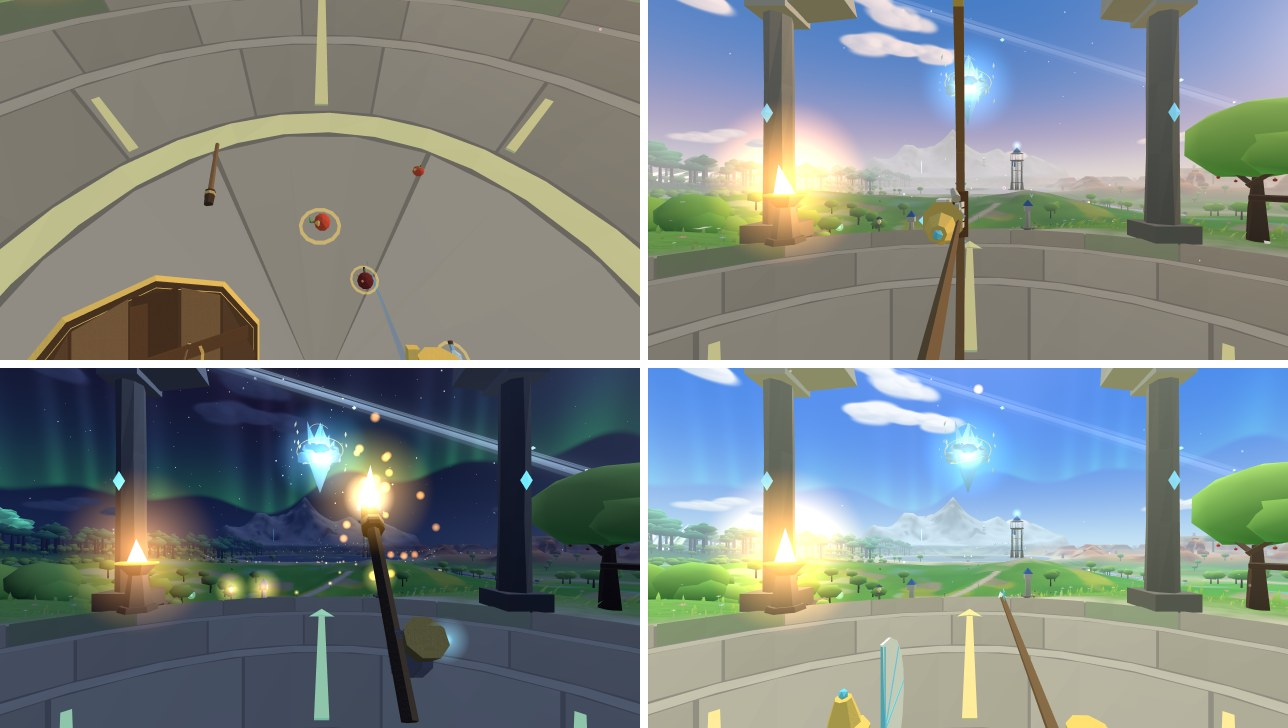
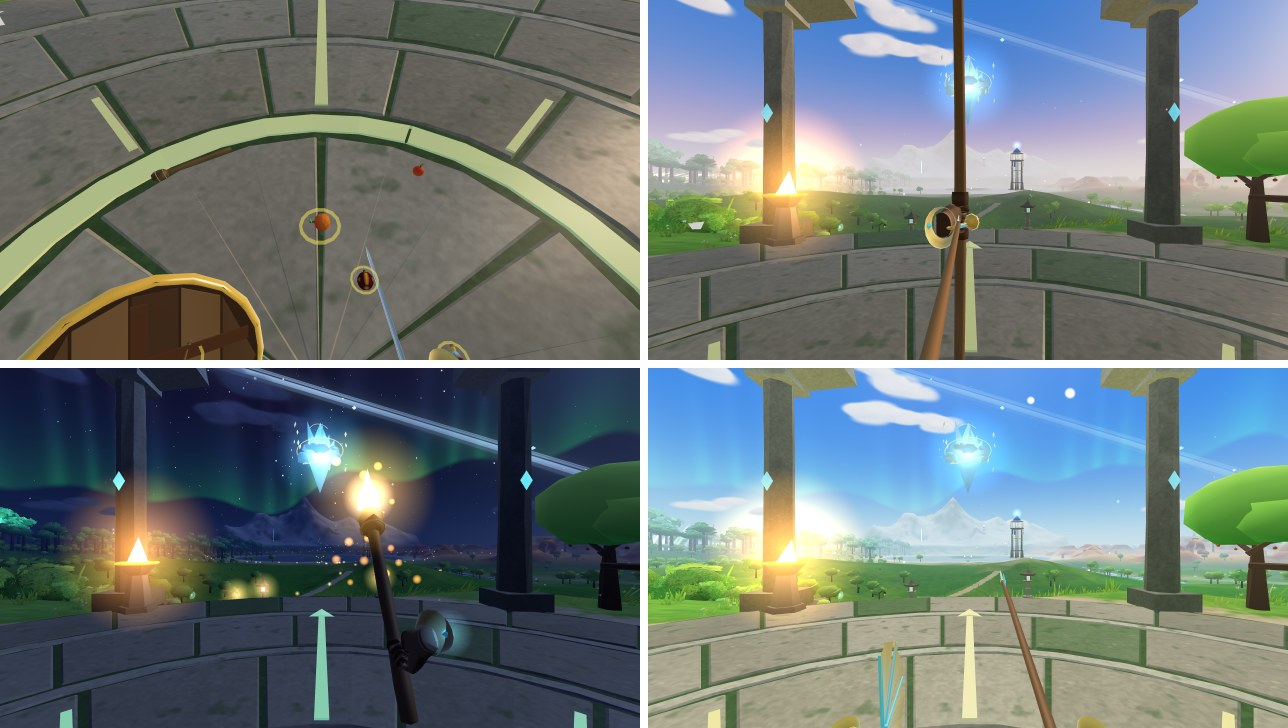
aetherwalk: realistic gloved hands and rebuilt held items
- Hands use the WebXR Input Profiles generic-hand mesh (MIT), skinned
  on the CPU with a baked leather glove texture; controllers pose the
  fingers from grip, trigger and thumb touch and wrap each item's
  handle; hand tracking drives the 25 joints; the faceted glove
  remains as an offline fallback. The build precaches the glbs.
- Held items rebuilt with smooth normals and matte/metal parts:
  bevelled sword with fuller, curved bow, planked shield, spear,
  torch, flask, bomb and fan.
- debug.coverage converts colours before measuring.
- New hands_closeup.jpg; retaken review_body.jpg.

Claude-Session: https://claude.ai/code/session_01H98kDx4BzyB7H16AujXYj1

diff --git a/aetherwalk/js/items/models.js b/aetherwalk/js/items/models.js
@@ -135,13 +135,13 @@ const BUILD = {
     b.gem(0, 0.022, -1.39, 0.008);
   },
   torch(b) {
-    // a knotted branch, a pitch-soaked cloth head bound with cord
-    b.lathe([[0.016, -0.3], [0.019, -0.22], [0.017, -0.12], [0.02, -0.02], [0.018, 0.08], [0.02, 0.13], [0.0, 0.14]], 7, C.wood, [0, 0, 0.0], [-R90, 0, 0], 1, { shade: grain('z', 3) });
-    b.lathe([[0.019, -0.03], [0.036, -0.02], [0.043, 0.02], [0.044, 0.06], [0.038, 0.1], [0.022, 0.12], [0.0, 0.125]], 8, C.pitch, [0, 0, -0.42], [R90, 0, 0], 1, {
-      shade: (x, y, z, c) => { const k = 0.5 + 0.5 * Math.sin(Math.atan2(y, x) * 5 + z * 140); c.lerp(MIXC.setHex(C.cloth), 0.15 + 0.25 * k); },
+    // a knotted branch (handle end z +0.13 → head z −0.41), a pitch-soaked cloth head bound with cord
+    b.lathe([[0.0, -0.135], [0.018, -0.13], [0.02, -0.06], [0.017, 0.06], [0.02, 0.17], [0.018, 0.3], [0.021, 0.41], [0.0, 0.415]], 7, C.wood, [0, 0, 0], [-R90, 0, 0], 1, { shade: grain('z', 3) });
+    b.lathe([[0.0, 0.0], [0.024, 0.002], [0.04, 0.02], [0.045, 0.055], [0.04, 0.095], [0.026, 0.118], [0.0, 0.124]], 8, C.pitch, [0, 0, -0.395], [-R90, 0, 0], 1, {
+      shade: (x, y, z, c) => { const k = 0.5 + 0.5 * Math.sin(Math.atan2(y, x) * 5 + z * 140); c.lerp(MIXC.setHex(C.cloth), 0.12 + 0.25 * k); if (z < -0.5) c.multiplyScalar(0.6); },
     });
-    b.torus(0.04, 0.0035, 4, 10, Math.PI * 2, C.cloth, [0, 0, -0.43], [0, 0, 0], 1, { smooth: true });
-    b.torus(0.043, 0.0035, 4, 10, Math.PI * 2, C.cloth, [0, 0, -0.49], [0, 0, 0], 1, { smooth: true });
+    b.torus(0.042, 0.0035, 4, 10, Math.PI * 2, C.cloth, [0, 0, -0.42], [0, 0, 0], 1, { smooth: true });
+    b.torus(0.044, 0.0035, 4, 10, Math.PI * 2, C.cloth, [0, 0, -0.475], [0, 0, 0], 1, { smooth: true });
   },
   shield(b) {
     // Ø0.48 decagon board, 0.03 thick; face +X = five bevelled planks with grain + gold boss + gem; smooth gold rim;
@@ -196,13 +196,19 @@ const BUILD = {
     b.cyl(0.0065, 0.0058, 0.014, 5, C.gold, [0, 0, -0.004], [R90, 0, 0], 1, { metal: true, smooth: true });
   },
   bomb(b) {
-    b.ico(0.062, 2, C.bomb, [0, 0, 0], [0, 0, 0], 1, {
+    // a burstfruit: a dark husk split by six glowing ochre seams, a woody stem and a frayed fuse
+    b.ico(0.062, 2, 0x3e1518, [0, 0, 0], [0, 0, 0], [1, 1, 1.08], {
       smooth: true,
-      shade: (x, y, z, c) => { const s = Math.sin(x * 160) * Math.sin(y * 150) * Math.sin(z * 170); if (s > 0.55) c.lerp(MIXC.setHex(C.bombDot), 0.75); c.ao = 0.85 + 0.15 * Math.max(0, -z / 0.062); },
+      shade: (x, y, z, c) => {
+        const a = Math.atan2(y, x), seam = Math.abs(Math.sin(a * 3));
+        if (seam < 0.2) c.lerp(MIXC.setHex(C.bombDot), 0.85 * (1 - seam / 0.2));
+        else c.lerp(MIXC.setHex(0x6e2024), 0.4 * seam);
+        c.ao = 0.75 + 0.25 * Math.min(1, Math.max(0, (-z + 0.02) / 0.08));
+      },
     });
-    b.lathe([[0.0, 0], [0.012, 0.002], [0.009, 0.012], [0.006, 0.016]], 6, C.dark, [0, 0, -0.058], [R90, 0, 0], 1, {});
-    b.tube([[0, 0, -0.072], [0.004, 0.003, -0.082], [0.0, 0.006, -0.092], [-0.004, 0.003, -0.1]], 0.0025, 6, 4, C.cloth, {});
-    b.box(0.032, 0.003, 0.016, C.green, [0.014, 0.0, -0.068], [0, 0.4, 0.2]);
+    b.lathe([[0.0, 0], [0.013, 0.002], [0.009, 0.012], [0.006, 0.017]], 6, C.dark, [0, 0, -0.064], [-R90, 0, 0], 1, {});
+    b.tube([[0, 0, -0.078], [0.004, 0.003, -0.088], [0.0, 0.006, -0.098], [-0.004, 0.003, -0.106]], 0.0025, 6, 4, C.cloth, {});
+    b.box(0.032, 0.003, 0.016, C.green, [0.014, 0.0, -0.072], [0, 0.4, 0.2]);
   },
   rock(b) {
     b.dodeca(0.05, C.rock, [0, 0, 0], [0.3, 0.5, 0], [1, 0.8, 0.9], { shade: (x, y, z, c) => c.multiplyScalar(0.9 + 0.2 * hash(Math.round(x * 400) + Math.round(y * 300) * 7)) });

diff --git a/aetherwalk/js/core/debug.js b/aetherwalk/js/core/debug.js
@@ -3,6 +3,7 @@
 import * as THREE from 'three';
 import { wrapDeg360, DEG } from './util.js';
 import { createDummy } from './stubs.js';
+const SRGB = Uint8Array.from({ length: 256 }, (_, v) => { const l = v / 255; return Math.round(255 * (l <= 0.0031308 ? 12.92 * l : 1.055 * l ** (1 / 2.4) - 0.055)); });
 
 // names of everything OPUS-A draws (hands, items, their effects, comfort aids)
 const MINE = /^(glove-|item-|items-|glow-sprites|item-shadows|item-streaks|gems$|swing-trail|vignette|center-ring|holster-|grab-aim-|bowstring|flame-cone|torch-glow|torch-core|bomb-spark|gale$|gem$)/;
@@ -201,6 +202,8 @@ export function installDebug(ctx, loop) {
       r.render(scene, cam);
       const px = new Uint8Array(w * h * 4);
       r.readRenderTargetPixels(rt, 0, 0, w, h, px);
+      // the target holds linear colour; encode to sRGB so colours (and dark faces) are judged as they appear on screen
+      for (let i = 0; i < px.length; i += 4) { px[i] = SRGB[px[i]]; px[i + 1] = SRGB[px[i + 1]]; px[i + 2] = SRGB[px[i + 2]]; }
       r.setRenderTarget(null);
       r.setClearColor(cc, ca);
       scene.background = bg; scene.fog = fog;
@@ -225,7 +228,7 @@ export function installDebug(ctx, loop) {
       // largest connected patch of one colour (a "single-colour face")
       const lab = new Int32Array(w * h).fill(-1);
       const keyAt = (i) => (px[i * 4 + 3] === 0 && px[i * 4] + px[i * 4 + 1] + px[i * 4 + 2] === 0) ? -1 : ((px[i * 4] >> 4) << 8 | (px[i * 4 + 1] >> 4) << 4 | (px[i * 4 + 2] >> 4));
-      let face = 0;
+      let face = 0, faceKey = -1, faceAt = -1;
       const stack = [];
       for (let i0 = 0; i0 < w * h; i0++) {
         if (lab[i0] !== -1) continue;
@@ -239,12 +242,14 @@ export function installDebug(ctx, loop) {
           const nb = [x > 0 ? i - 1 : -1, x < w - 1 ? i + 1 : -1, y > 0 ? i - w : -1, y < h - 1 ? i + w : -1];
           for (const j of nb) if (j >= 0 && lab[j] === -1 && keyAt(j) === k) { lab[j] = i0; stack.push(j); }
         }
-        if (size > face) face = size;
+        if (size > face) { face = size; faceKey = k; faceAt = i0; }
       }
       const T = w * h;
       return { frac: +(n / T).toFixed(4), bottom10: +(bottom / T).toFixed(4), topRow: n ? +(top / h).toFixed(3) : null,
         bbox: n ? [+(minX / w).toFixed(3), +(minY / h).toFixed(3), +(maxX / w).toFixed(3), +(maxY / h).toFixed(3)] : null,
-        biggestColor: +(big / T).toFixed(4), biggestFace: +(face / T).toFixed(4) };
+        biggestColor: +(big / T).toFixed(4), biggestFace: +(face / T).toFixed(4),
+        faceColor: faceKey < 0 ? null : '#' + faceKey.toString(16).padStart(3, '0'),
+        faceAt: faceAt < 0 ? null : [+((faceAt % w) / w).toFixed(3), +(1 - ((faceAt / w) | 0) / h).toFixed(3)] };
     },
   });
   function safe(fn, dflt) { try { return fn(); } catch { return dflt; } }

diff --git a/aetherwalk/js/player/hands.js b/aetherwalk/js/player/hands.js
@@ -109,8 +109,9 @@ export function createHands(ctx, P) {
   const handMat = ctx.art.material({ color: 0xffffff, vertexColors: true, flat: false, rim: 0.35, spec: 0.12, gloss: 10 });
   const cuffs = createAttached(ctx, 'glove-cuffs', cuffGeometry(),
     ctx.art.material({ color: 0xffffff, vertexColors: true, flat: false, rim: 0.3, spec: 0.6, gloss: 40 }), 2, 1e6);
-  loadHandData().then((data) => {
+  loadHandData().then(async (data) => {
     for (const side of HANDS) {
+      await new Promise((r) => setTimeout(r, 0));          // one hand's texture bake per task (no long stall)
       const h = H[side];
       const rig = createHandRig(data[side], side, handMat, new THREE.Vector3(h.s * GRIP_C[0], GRIP_C[1], GRIP_C[2]), ctx.art);
       h.rig = rig;
@@ -194,7 +195,7 @@ export function createHands(ctx, P) {
     for (const side of HANDS) {
       const h = H[side];
       const hd = input.hands[side];
-      if (rigReady && h.rig) {
+      if (h.rig) {                                      // per hand: no frame with both gloves while the other bakes
         h.rig.mesh.visible = hd.tracked;
         h.anchor.visible = hd.tracked;
         if (hd.tracked) poseRig(h, side, hd, dt);
@@ -208,7 +209,7 @@ export function createHands(ctx, P) {
         h.mesh.visible = hd.tracked;
       }
       if (hd.tracked && (ctx.world?.nightFactor ?? 0) > 0.5) {
-        if (h.anchor && rigReady) _gp.set(0, 0.032, 0.03).applyQuaternion(h.anchor.getWorldQuaternion(_jq)).add(h.anchor.getWorldPosition(_jp));
+        if (h.anchor) _gp.set(0, 0.032, 0.03).applyQuaternion(h.anchor.getWorldQuaternion(_jq)).add(h.anchor.getWorldPosition(_jp));
         else _gp.set(h.s * 0.082, 0.088, 0).applyQuaternion(hd.quat).add(hd.pos);
         sprites.push(_gp, 0.1, GEM_GLOW);                // art.glow size 0.05 = radius → 0.1 across
       }

diff --git a/aetherwalk/js/core/input.js b/aetherwalk/js/core/input.js
@@ -50,8 +50,9 @@ const GUARD = { p: [0.12, -0.2, -0.44], d: [0.0, 1, 0.05], e: [1, -0.25, 0.2] };
 //   empty hand 45.6° below the view → out of frame; holding something 34.7° below → only the item's
 //   far end shows in the lower quarter; a shield turned 35° outward at the lower left.
 const EMPTY_REST = { p: [0.24, -0.47, -0.46], d: [0.05, 0.72, -0.7], e: [0.12, 0.2, 0.9] };
-// (a thumb-up fist puts the cuff ~0.11 m above the grip, so the grip sits just under the frame: y −0.43)
-const HELD_REST = { p: [0.22, -0.49, -0.55], d: [0.03, 0.08, -1], e: [0.0, 1, 0.0] };    // thumb up, tip low and forward
+// (a thumb-up fist puts the cuff above the grip: the grip sits under the frame at y −0.52 and the blade is pitched
+//  11° up, so only the blade rises into the lower third and ≤ 25 px of glove/cuff shows at 720p)
+const HELD_REST = { p: [0.22, -0.52, -0.55], d: [0.03, 0.2, -1], e: [0.0, 1, 0.0] };    // thumb up, tip low and forward
 const SHIELD_REST = { p: [0.34, -0.46, -0.5], d: [0.0, 1, 0.0], e: [0.819, 0, 0.574] };  // face 35° outward (left hand mirrors)
 SWINGS.rest = { keys: [REST, REST, REST] };
 // held poses for desktop (orientation while reaching / resting)
@@ -64,6 +65,7 @@ const POSES = {
   pour: { p: [0.2, -0.25, -0.45], d: [0.0, -1, -0.15], e: [0.15, 0.2, 0.95] },        // upside down
   draw: { p: [0.1, -0.05, -0.25], d: [0.0, 0.1, -1], e: [0.6, -0.3, 0.7] },           // string hand, arrow forward
   raise: { p: [0.18, -0.25, -0.6], d: [0.0, 0.75, -0.66], e: [0.0, 0.66, 0.75] },     // torch held up in front, arm's length
+  show: { p: [0.2, -0.2, -0.45], d: [-1, -0.15, 0.1], e: [0.0, 0.25, 1] },             // open hand, palm down, fingers forward
 };
 
 const _v = new THREE.Vector3(), _v2 = new THREE.Vector3(), _v3 = new THREE.Vector3();

diff --git a/aetherwalk/js/player/grab.js b/aetherwalk/js/player/grab.js
@@ -136,12 +136,25 @@ export function createGrab(ctx, P, holsters) {
     if (show && !bell) {
       bell = items.makeModel('waybell');
       bell.name = 'wrist-waybell';
-      bell.scale.setScalar(0.75);
-      bell.position.set(-0.035, 0.085, 0.01);
-      bell.rotation.set(Math.PI / 2, 0, 0);
+      bell.scale.setScalar(0.42);
+      bell.userData.onAnchor = false;
       input.hands.left.object3D.add(bell);
     }
-    if (bell) bell.visible = !!show;
+    if (bell) {
+      bell.visible = !!show;
+      // small, on the palm side of the left cuff (follows the wrist of the skinned hand once it is there)
+      const anchor = input.hands.left.object3D.getObjectByName('wrist-anchor');
+      if (anchor && !bell.userData.onAnchor) {
+        anchor.add(bell);
+        bell.userData.onAnchor = true;
+        bell.position.set(0.0, -0.036, 0.028);
+        bell.rotation.set(-0.5, 0, Math.PI);
+      } else if (!anchor && !bell.userData.placed) {
+        bell.userData.placed = true;
+        bell.position.set(-0.035, 0.085, 0.01);
+        bell.rotation.set(Math.PI / 2, 0, 0);
+      }
+    }
     // distance-grab highlight (VR only; the PC preview uses the reticle)
     aimT -= dt;
     if (aimT > 0) return;

diff --git a/aetherwalk/js/items/index.js b/aetherwalk/js/items/index.js
@@ -123,6 +123,7 @@ export async function createItems(ctx) {
     inst.holdQuat.identity();
     const d = inst.def;
     if (d.id === 'shield' && hand === 'left') inst.holdQuat.copy(FLIP_Z);
+    else if (d.id === 'bow') inst.holdPos.set(0, 0.034, 0);            // its leather grip (y −0.034) sits in the fist
     else if (d.cat === 'food') inst.holdPos.set(-s * 0.04, -0.035, 0);
     else if (d.id === 'bomb' || d.id === 'rock' || d.cat === 'material' || d.cat === 'key') inst.holdPos.set(-s * 0.035, -0.03, 0);
     inst.object3D.position.copy(inst.holdPos);
